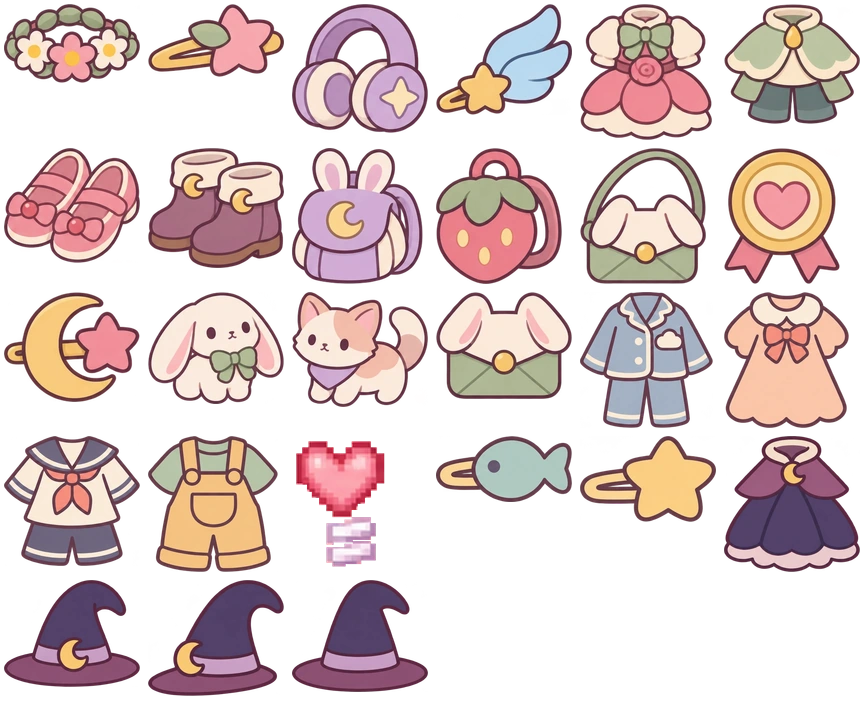
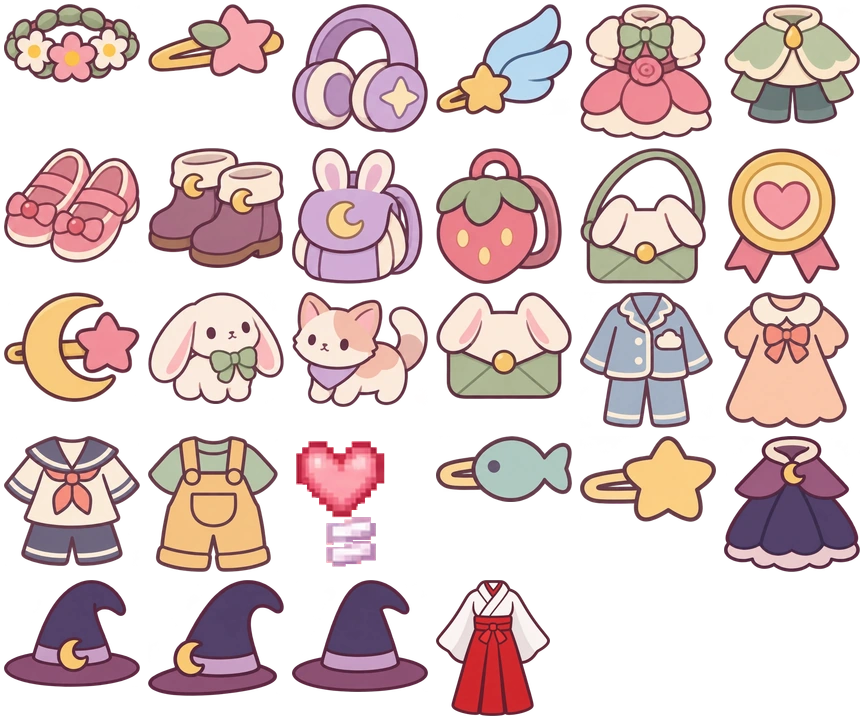
将月灯女巫套装加入初始衣橱，新增绯袴巫女服与纪念馆收集奖励

Changed region(s): [[0.5, 0.7944, 0.625, 1.0]]

diff --git a/src/items.ts b/src/items.ts
@@ -16,7 +16,7 @@ export type ItemId =
   | "rabbitSatchel"
   | "cloudPajamas" | "apricotNightgown" | "sailorSet" | "honeyOveralls"
   | "heartClip" | "fishClip" | "starClip"
-  | "witchDress" | "witchHat";
+  | "witchDress" | "witchHat" | "mikoOutfit";
 export const EQUIP_SLOTS = [
   "head",
   "hair",
@@ -136,8 +136,8 @@ export const ITEMS: Record<
     description: "给继续挑战的小冒险家，一份额外的小惊喜。",
     source: "任意小游戏领奖后达到双倍目标",
   },
-  witchDress: { name: "月灯女巫裙", slot: "clothes", description: "墨蓝钟形裙上搭着梅紫短斗篷，领口扣住一弯小月亮。", source: "收齐七件小镇小物后，在周年纪念馆找暖栗领取" },
-  witchHat: { name: "月灯尖帽", slot: "head", description: "帽尖轻轻折向一侧，丁香紫缎带上别着月牙。", source: "与月灯女巫裙一同在周年纪念馆领取" },
+  witchDress: { name: "月灯女巫裙", slot: "clothes", description: "墨蓝钟形裙上搭着梅紫短斗篷，领口扣住一弯小月亮。", source: "初始衣橱" },
+  witchHat: { name: "月灯尖帽", slot: "head", description: "帽尖轻轻折向一侧，丁香紫缎带上别着月牙。", source: "初始衣橱" },
   cloudPajamas: { name: "云朵翻领睡衣", slot: "clothes", description: "雾蓝翻领衫配长裤，口袋里缝着一朵白云。", source: "初始衣橱" },
   apricotNightgown: { name: "杏桃晚安裙", slot: "clothes", description: "圆圆的奶油领下系着一枚小蝴蝶结，裙摆刚好盖过膝头。", source: "初始衣橱" },
   sailorSet: { name: "海盐水手装", slot: "clothes", description: "海军蓝水手领，珊瑚红领巾，一条能迈开步子的短裤。", source: "初始衣橱" },
@@ -145,10 +145,17 @@ export const ITEMS: Record<
   heartClip: { name: "爱心发夹", slot: "hair", description: "芙芙常戴的小爱心，下面别着两根淡紫发卡。", source: "初始衣橱" },
   fishClip: { name: "小鱼发夹", slot: "hair", description: "一尾薄荷蓝的小鱼游进了发梢。", source: "初始衣橱" },
   starClip: { name: "星星发夹", slot: "hair", description: "一颗蜂蜜金的小星，轻轻别在刘海旁。", source: "初始衣橱" },
+  mikoOutfit: {
+    name: "绯袴巫女服",
+    slot: "clothes",
+    description: "白衣交领，宽袖垂在绯袴两旁。腰前打了个小结，是暖栗替芙芙系的。",
+    source: "收齐七件小镇小物，白昼或黄昏在周年纪念馆找暖栗领取",
+  },
 };
-export const townWitchSet = ["witchDress", "witchHat"] as const;
+export const townCollectionReward = "mikoOutfit" satisfies ItemId;
 export const starterItems: readonly ItemId[] = [
   "heartClip", "fishClip", "starClip", "cloudPajamas", "apricotNightgown", "sailorSet", "honeyOveralls",
+  "witchDress", "witchHat",
 ];
 export interface InventoryState {
   owned: ItemId[];

diff --git a/src/achievements.ts b/src/achievements.ts
@@ -7,7 +7,7 @@ import { rainbowFlowers } from "./rainbow-flowers.ts";
 import { producers } from "./star-catalog.ts";
 import { deliveryIds } from "./letters.generated.ts";
 import { achievementEvents, type AchievementEvent } from "./achievement-events.ts";
-import { townWitchSet } from "./items.ts";
+import { townCollectionReward } from "./items.ts";
 import { townInteriorKeys } from "./town-interior-id.ts";
 import { townKeepsakeBadge, townKeepsakeChoice, townKeepsakeInfo } from "./town-keepsakes.ts";
 
@@ -95,7 +95,7 @@ const explore: Definition[] = [
     description: hint + "。", difficulty: id === "first" ? "简单" : id === "light" ? "挑战" : id === "radio" ? "探索" : "普通",
     ...(id === "radio" ? { hint: "听月泉边，连最轻的声音也能传很远。" } : {}),
   })),
-  { id: "town-witch", chapter: "explore", name: "灯下的小女巫", difficulty: "挑战", description: "收齐七件小镇小物，白昼或黄昏在周年纪念馆找暖栗，收下月灯女巫套装。" },
+  { id: "town-miko", chapter: "explore", name: "绯袴留影", difficulty: "挑战", description: "收齐七件小镇小物，白昼或黄昏在周年纪念馆找暖栗，收下绯袴巫女服。" },
   ...townInteriorKeys.map((key): Definition => ({
     id: townKeepsakeBadge(key), chapter: "explore", name: townKeepsakeInfo[key].name, difficulty: "简单",
     description: `在小镇室内完成对应的手作，收下${townKeepsakeInfo[key].name}。`,
@@ -303,11 +303,11 @@ export function reconcileAchievements(progress: Progress, context: AchievementCo
     meters.set(townKeepsakeBadge(key), { ...yesNo(owned), keepsakeChoice: owned ? townKeepsakeChoice(progress.townKeepsakes, key) : undefined });
   }
   const keepsakes = townInteriorKeys.filter(key=>progress.townKeepsakes.items.includes(key)).length;
-  const claimed = townWitchSet.every(id=>context.owned.includes(id));
-  const witch = meter(keepsakes + Number(claimed), townInteriorKeys.length + 1, "步");
-  witch.progressLabel = claimed && keepsakes === townInteriorKeys.length ? "已收下女巫套装"
+  const claimed = context.owned.includes(townCollectionReward);
+  const collection = meter(keepsakes + Number(claimed), townInteriorKeys.length + 1, "步");
+  collection.progressLabel = claimed && keepsakes === townInteriorKeys.length ? "已收下绯袴巫女服"
     : `小镇小物 ${keepsakes} / ${townInteriorKeys.length}` + (keepsakes === townInteriorKeys.length ? " · 待向暖栗领取" : "");
-  meters.set("town-witch",witch);
+  meters.set("town-miko", collection);
   meters.set("ruin-set", meter(progress.astrolabe.found.length, rings.length, "枚星盘环"));
   const minutes = Math.floor(Math.max(0, Number.isFinite(context.playSeconds) ? context.playSeconds : 0) / 60);
   for (const { days: n } of days) {

diff --git a/src/town.ts b/src/town.ts
@@ -1,5 +1,5 @@
 import type { World, DepthLayer } from "./world";
-import { townWitchSet } from "./items";
+import { townCollectionReward } from "./items";
 import type { Inventory } from "./inventory";
 import type { Activities } from "./activities";
 import { TOWN_NPCS, TOWN_TALKED_KEY, readTownVisits, type TownNpc } from "./town-data";
@@ -162,13 +162,13 @@ export class Town {
       this.save();
     }
     const at = {...npc,x:person.x,y:person.y};
-    if (this.canOfferWitchSet(npc)) {
-      this.present(at, "witch-offer", { text: "七扇门里的小物都到齐了！我给最后一张照片留了套戏服。芙芙，要试试做个掌灯的小女巫吗？" }, [
-        {title:"收下女巫套装", run:() => {
-          if (!this.hooks.canSave() || !this.canOfferWitchSet(npc)) return;
-          this.inventory.grantItems(townWitchSet, false);
+    if (this.canOfferCollectionReward(npc)) {
+      this.present(at, "miko-offer", { text: "七件小物都齐了！芙芙，我给你留了一套巫女服。换好后，要不要在展柜前一起拍张照？" }, [
+        {title:"收下巫女服", run:() => {
+          if (!this.hooks.canSave() || !this.canOfferCollectionReward(npc)) return;
+          this.inventory.grant(townCollectionReward, false);
           this.hooks.save();
-          this.present(at, "witch-received", {text:"暖栗把月灯女巫裙叠好，又把尖帽轻轻放在上面。「帽子可以单戴。下次拍照，就穿你最喜欢的搭配吧。」"}, [
+          this.present(at, "miko-received", {text:"暖栗捧来叠好的白衣和绯袴。「腰带在前面打个结就好。你慢慢换，我去架相机。」"}, [
             {title:"打开衣橱",run:() => this.answer(at,"@bag")},
           ]);
         }},
@@ -178,10 +178,10 @@ export class Town {
     return true;
   }
 
-  private canOfferWitchSet(npc: TownNpc) {
+  private canOfferCollectionReward(npc: TownNpc) {
     return this.area === "town-hall" && npc.id === "photo-visitor" &&
       townInteriorKeys.every(key=>this.hooks.keepsakes().items.includes(key)) &&
-      !townWitchSet.every(id=>this.inventory.has(id));
+      !this.inventory.has(townCollectionReward);
   }
   private greet(npc: TownNpc) {
     const opening = residentOpening(npc.id, this.hooks.story(), this.inventory.hasBouquet(), this.world.chats.introduced("npc-"+npc.id));

diff --git a/tests/achievements.test.ts b/tests/achievements.test.ts
@@ -212,7 +212,7 @@ test("every documented stamp can be completed and replay never duplicates receip
   grantDebugLetters(p.residents);
   for (const l of allLetters) markLetterRead(p.residents, l.id);
   for (const id of Object.keys(ARCADES) as GameId[]) p.arcadeBests[id] = 400;
-  const ctx = { ...empty, owned:["witchDress","witchHat"], townTalked: TOWN_NPCS.map(n => n.id), playSeconds: 7 * 24 * 60 };
+  const ctx = { ...empty, owned:["mikoOutfit"], townTalked: TOWN_NPCS.map(n => n.id), playSeconds: 7 * 24 * 60 };
   assert.equal(reconcileAchievements(p, ctx).fresh.length, 55);
   assert.deepEqual(reconcileAchievements(p, ctx).fresh, []);
   assert.equal(reconcileAchievements(readProgress(JSON.stringify(p)), ctx).entries.filter(e => e.earned).length, 55);
@@ -220,15 +220,15 @@ test("every documented stamp can be completed and replay never duplicates receip
   assert.equal(achievementDefinitions.filter(d => d.id.startsWith("ruin-")).length, 5);
 });
 
-test("the witch stamp requires seven distinct keepsakes and the real two-piece reward", () => {
+test("the miko stamp requires seven distinct keepsakes and accepting the shrine maiden outfit", () => {
   const p=newGame();
-  const check=(owned:string[])=>reconcileAchievements(p,{...empty,owned}).entries.find(e=>e.id==="town-witch")!;
-  p.townKeepsakes.items=townInteriorKeys.slice(1);
-  assert.equal(check(["witchDress","witchHat"]).earned,false);
+  const check=(owned:string[])=>reconcileAchievements(p,{...empty,owned}).entries.find(e=>e.id==="town-miko")!;
+  p.townKeepsakes.items=[...townInteriorKeys.slice(1),townInteriorKeys[1]];
+  assert.equal(check(["mikoOutfit"]).earned,false);
   p.townKeepsakes.items=[...townInteriorKeys];
   assert.equal(check([]).earned,false); assert.match(check([]).progressLabel,/待向暖栗领取/);
-  assert.equal(check(["witchDress"]).earned,false);
-  assert.equal(check(["witchDress","witchHat"]).earned,true);
+  assert.equal(check(["witchDress","witchHat"]).earned,false);
+  assert.equal(check(["mikoOutfit"]).earned,true);
   assert.deepEqual(reconcileAchievements(readProgress(JSON.stringify(p)),empty).fresh,[]);
 });
 test("each claimed town keepsake earns exactly its own stamp, including existing saves", () => {

diff --git a/tests/wardrobe-cases.ts b/tests/wardrobe-cases.ts
@@ -56,14 +56,15 @@ export async function verifyWardrobe(world: World, log: (message: string) => voi
   const grid = getComputedStyle(panel.querySelector(".bag-grid")!);
   check(grid.gridTemplateColumns.split(" ").length === (compact ? 4 : 5) && grid.gridTemplateRows.split(" ").length === (compact ? 2 : 3), "显示的行列数不正确");
   const ids = catalogue();
+  const pageCount = Math.ceil(Object.keys(ITEMS).length / (compact ? 8 : 15));
   let pages = 1;
   while (panel.querySelector('[data-page="1"]:not(:disabled)')) {
     button('[data-page="1"]').click();
     ids.push(...catalogue());
     pages++;
-    check(pages <= 3, "翻页没有到达末页");
+    check(pages <= pageCount, "翻页没有到达末页");
   }
-  check(pages === (compact ? 3 : 2), "页数与屏幕容量不一致");
+  check(pages === pageCount, "页数与屏幕容量不一致");
   check(panel.querySelector('[data-page="1"]:disabled'), "最后一页没有禁用下一页");
   if (compact) button('[data-tab="equipped"]').click();
   check(visibleSlots().length === EQUIP_SLOTS.length, "衣橱缺少装备槽");
@@ -101,7 +102,7 @@ export async function verifyWardrobe(world: World, log: (message: string) => voi
   button(".bag-close").click();
   sameFrame();
   check(panel.hidden && document.activeElement===world.canvas && !world.suspended, "收起后未恢复地图操作");
-  log((compact ? "手机 4×2 三页、身上七槽" : "桌面 5×3 两页和七个装备槽") + "、七部位筛选、左右转身、未确认退出、3:2 画幅和视口均通过");
+  log((compact ? "手机 4×2" : "桌面 5×3") + " 共 " + pages + " 页，七个装备槽、部位筛选、左右转身、未确认退出、3:2 画幅和视口均通过");
 }
 
 /** The book's controls must keep scrolling inside the book, including at its edges. */

diff --git a/tests/festival.test.ts b/tests/festival.test.ts
@@ -234,8 +234,8 @@ test("miner misses have no penalty and rewards can be followed by another full f
   assert.equal(game.status, "playing");
 });
 
-test("fresh and legacy wardrobes receive four outfits and three clips without changing earned gear", () => {
-  const starters = ["cloudPajamas","apricotNightgown","sailorSet","honeyOveralls","heartClip","fishClip","starClip"];
+test("the starter wardrobe includes five outfits, an independent witch hat and three clips", () => {
+  const starters = ["cloudPajamas","apricotNightgown","sailorSet","honeyOveralls","witchDress","witchHat","heartClip","fishClip","starClip"];
   for (const raw of [null, JSON.stringify({owned:[],equipped:{}})]) {
     const bag = readInventory(raw);
     assert.deepEqual([...bag.owned].sort(),starters.slice().sort());
@@ -243,7 +243,12 @@ test("fresh and legacy wardrobes receive four outfits and three clips without ch
     assert.ok(equipItem(bag,"heartClip"));
     assert.equal(readInventory(JSON.stringify(bag)).equipped.hair,null);
     assert.ok(equipItem(bag,"fishClip"));
+    assert.ok(equipItem(bag,"witchDress"));
+    assert.ok(equipItem(bag,"witchHat"));
     assert.ok(equipItem(bag,"honeyOveralls"));
+    assert.equal(bag.equipped.head,"witchHat");
+    assert.equal(bag.equipped.hair,"fishClip");
+    assert.equal(equipItem(bag,"mikoOutfit"),false);
     assert.deepEqual(readInventory(JSON.stringify(bag)),bag);
   }
   for (const id of ["candyClip","starWings"] as const) {

diff --git a/src/achievement-art.ts b/src/achievement-art.ts
@@ -135,14 +135,16 @@ function ticket(c: Ink, x: number, y: number, w: number, h: number) {
   rect(c, x + 3, y + 3, w - 6, h - 6, "#fff0c4");
 }
 const art: Record<string, (c: Ink, choice?: string) => void> = {
-  "town-witch"(c) {
-    oval(c,16,24,14,4,ink);
-    oval(c,16,23,13,3,"#83567b");
-    polygon(c,ink,[6,22],[11,15],[16,5],[23,3],[25,7],[21,7],[21,12],[25,22]);
-    polygon(c,"#65577c",[8,21],[13,15],[17,6],[22,5],[19,8],[20,14],[23,21]);
-    polygon(c,lilac,[9,18],[22,17],[24,21],[7,22]);
-    oval(c,18,19,3,3,gold); oval(c,19,18,2,2,lilac);
-    spark(c,5,9,gold);
+  "town-miko"(c) {
+    polygon(c, ink, [2,14],[7,7],[12,4],[20,4],[25,7],[30,14],[26,19],[22,17],[26,28],[6,28],[10,17],[6,19]);
+    polygon(c, "#fffbef", [4,14],[8,8],[13,5],[19,5],[24,8],[28,14],[26,17],[21,14],[11,14],[6,17]);
+    line(c, "#a78b91", [12,5],[16,10]);
+    line(c, ink, [20,5],[12,14]);
+    polygon(c, "#ce514c", [11,15],[21,15],[24,26],[8,26]);
+    line(c, "#993d49", [13,18],[11,26]);
+    line(c, "#993d49", [18,18],[20,26]);
+    rect(c, 11, 14, 10, 2, "#933946");
+    line(c, "#f69172", [13,17],[16,15],[19,18]);
   },
   cake(c) {
     oval(c, 16, 24, 13, 3, "#9baab1");

diff --git a/tests/equipment-fixture.ts b/tests/equipment-fixture.ts
@@ -22,6 +22,7 @@ function table(id: string) {
   document.getElementById(id)!.append(element);
   return (name:string, worn: Equipped, icon?:ItemId) => {
     const row=rows.insertRow(); const label=document.createElement("th");
+    if (worn.clothes) row.dataset.outfit = worn.clothes;
     label.scope="row"; label.textContent=name; row.append(label);
     if (icon) {
       const c=document.createElement("canvas"); c.width=80; c.height=48;
@@ -40,6 +41,7 @@ function table(id: string) {
       canvas.setAttribute("aria-label",name+" · "+p.name);
       row.insertCell().append(canvas);
     }
+    return row;
   };
 }
 const bodyRow=table("outfits"), headRow=table("headwear"), bagRow=table("backpacks");
@@ -62,5 +64,5 @@ for (const [i,clothes] of outfits.entries()) {
     body:i%2 ? "echoBrooch" : "anniversaryPin",
   });
 }
-mixRow("月灯女巫套装",{clothes:"witchDress",head:"witchHat",hair:"heartClip"});
+mixRow("月灯女巫套装",{clothes:"witchDress",head:"witchHat",hair:"heartClip"}).id = "witch-set";
 document.body.dataset.ready="true";

diff --git a/tests/full-badge-route.ts b/tests/full-badge-route.ts
@@ -204,10 +204,10 @@ export async function verifyFullBadgeRoute(world: World, log: (line: string) => 
   }
   log("七件小镇纪念品均在亲手完成并收下后盖章");
 
-  expect(!earned("town-witch"), "集齐小物时提前颁发了女巫徽章");
+  expect(!earned("town-miko"), "集齐小物时提前颁发了绯袴留影徽章");
   await interactAt("town-hall","npc-photo-visitor");
-  await choose("收下女巫套装");
-  expect(earned("town-witch"), "向纪念馆暖栗收下套装后未颁发徽章");
+  await choose("收下巫女服");
+  expect(earned("town-miko"), "从暖栗手中收下巫女服后未颁发绯袴留影徽章");
   closeActivity();
 
   const ordinary = achievementDefinitions.filter(d => !d.id.startsWith("days-"));

diff --git a/src/inventory.ts b/src/inventory.ts
@@ -278,16 +278,12 @@ export class Inventory {
     this.root.querySelector<HTMLButtonElement>(".bag-close")!.focus({ preventScroll: true });
   }
   grant(id: ItemId, announce = true) {
-    return this.grantItems([id], announce);
-  }
-  grantItems(ids: readonly ItemId[], announce = true) {
-    const added = ids.filter(id => grantItem(this.earned, id));
-    if (!added.length) return false;
+    if (!grantItem(this.earned, id)) return false;
     this.save();
     this.render();
     if (announce) {
       sfx("match");
-      this.toast(`获得纪念品：${added.map(id => ITEMS[id].name).join("、")} · 按 B 打开背包`);
+      this.toast(`获得纪念品：${ITEMS[id].name} · 按 B 打开背包`);
     }
     return true;
   }

diff --git a/src/town-interior-activities.ts b/src/town-interior-activities.ts
@@ -150,7 +150,7 @@ export class TownInteriorActivities {
     const dates = document.createElement("small");
     dates.textContent = `${anniversary.start} — ${anniversary.end}`;
     const note = document.createElement("p");
-    note.textContent = "「七件小物都收齐了？白昼或黄昏来馆里找我，给你留了套女巫戏服。」——暖栗";
+    note.textContent = "「收齐七件小物，白昼或黄昏来馆里找我吧。给你留了套拍照穿的绯袴巫女服。」——暖栗";
     content.append(count, dates, list, note);
     update();
     this.activities.dialogue(spot.title, "", [], null, spot.approach, () => {

diff --git a/src/costume-frames.ts b/src/costume-frames.ts
@@ -22,7 +22,7 @@ export function poseFrame(pose: AvatarPose, facing: Facing, step: number) {
   return facing * 3 + step;
 }
 
-export const outfits = [null, "roseDress", "mintCape", "cloudPajamas", "apricotNightgown", "sailorSet", "honeyOveralls", "witchDress"] as const satisfies readonly (ItemId | null)[];
+export const outfits = [null, "roseDress", "mintCape", "cloudPajamas", "apricotNightgown", "sailorSet", "honeyOveralls", "witchDress", "mikoOutfit"] as const satisfies readonly (ItemId | null)[];
 export function outfitIndex(clothes?: ItemId | null) {
   return Math.max(0, outfits.findIndex(id => id === clothes));
 }
